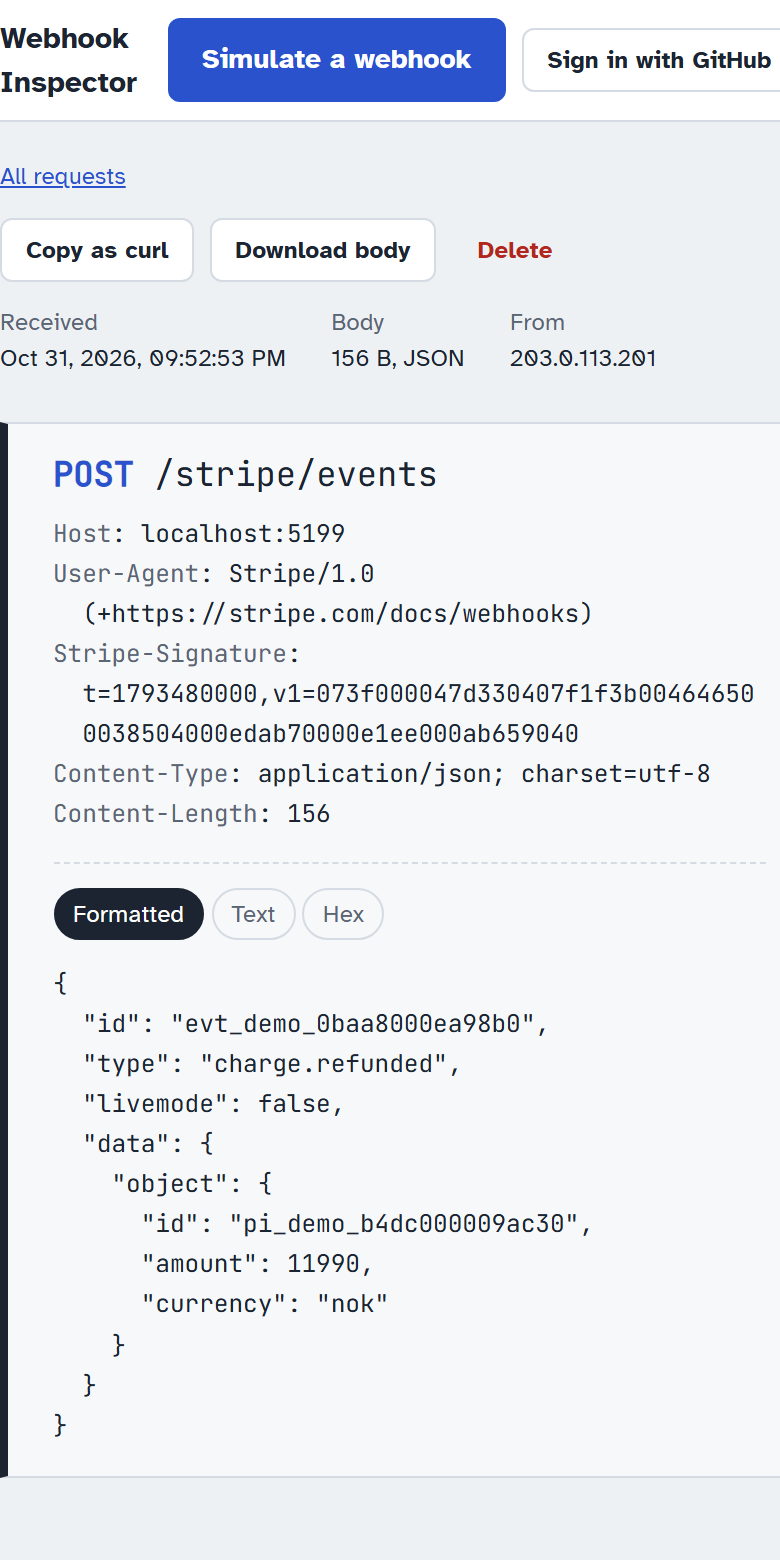
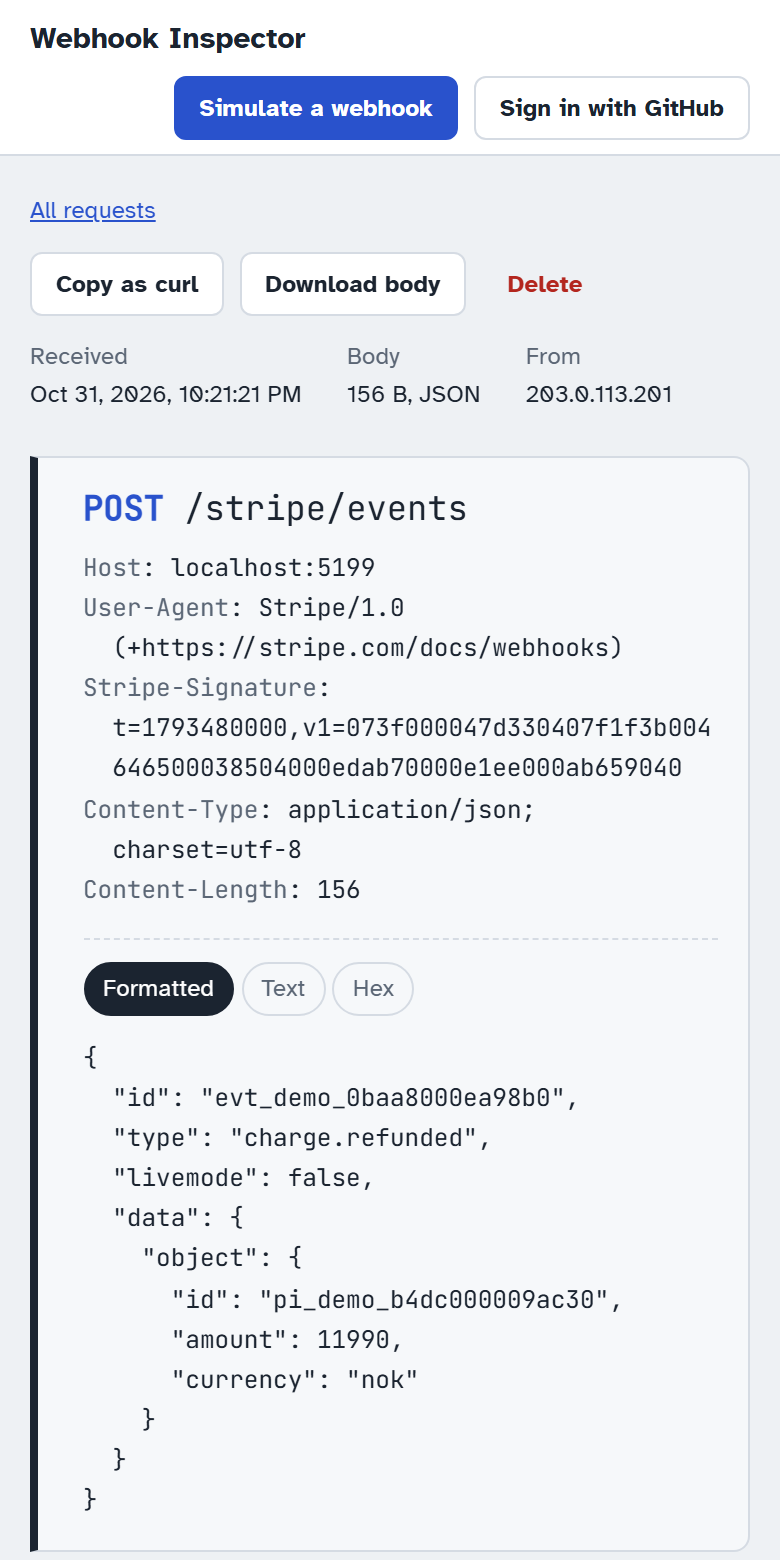
Let the top bar wrap so the UI fits narrow phones

diff --git a/web/e2e/responsive.spec.ts b/web/e2e/responsive.spec.ts
@@ -1,0 +1,66 @@
+/// <reference lib="dom" />
+import { type Page, expect, test } from '@playwright/test'
+import { createEndpoint, signIn } from './helpers.ts'
+
+// From a small phone to a large monitor. The layout changes at 700 px and 1100 px.
+const widths = [320, 375, 600, 768, 1024, 1280, 1920, 2560]
+
+/** The page must fit its viewport: nothing may force a horizontal scrollbar. */
+async function expectNoHorizontalScroll(page: Page, where: string): Promise<void> {
+  const size = await page.evaluate(() => ({
+    viewport: document.documentElement.clientWidth,
+    content: document.documentElement.scrollWidth,
+  }))
+  expect(size.content, `${where}: content is wider than the viewport`).toBeLessThanOrEqual(size.viewport)
+}
+
+test('the sign-in page and the demo fit every screen width', async ({ page }) => {
+  for (const width of widths) {
+    await page.setViewportSize({ width, height: 800 })
+
+    await page.goto('/')
+    await expect(page.getByRole('link', { name: 'Sign in with GitHub' })).toBeVisible()
+    await expectNoHorizontalScroll(page, `sign-in at ${width}px`)
+
+    await page.goto('/demo')
+    await expect(page.getByRole('link', { name: /GitHub push/ })).toBeVisible()
+    await expectNoHorizontalScroll(page, `demo home at ${width}px`)
+
+    await page.getByRole('link', { name: /GitHub push/ }).click()
+    await expectNoHorizontalScroll(page, `demo endpoint at ${width}px`)
+
+    await page.locator('.request-row').first().click()
+    await expect(page.getByRole('button', { name: 'Copy as curl' })).toBeVisible()
+    await expectNoHorizontalScroll(page, `demo request at ${width}px`)
+
+    // Every action in the top bar stays on screen.
+    for (const name of ['Simulate a webhook', 'Sign in with GitHub']) {
+      const box = await page.getByRole('banner').getByRole(name === 'Sign in with GitHub' ? 'link' : 'button', { name }).boundingBox()
+      expect(box, name).not.toBeNull()
+      expect(box!.x + box!.width, `${name} at ${width}px`).toBeLessThanOrEqual(width)
+    }
+  }
+})
+
+test('the signed-in app fits a narrow phone, including a long request', async ({ page }) => {
+  await signIn(page, 'e2e-responsive-with-a-long-login-name')
+  await page.setViewportSize({ width: 320, height: 700 })
+  await page.goto('/')
+  const captureUrl = await createEndpoint(page, 'An endpoint with a rather long name for a phone')
+  await expectNoHorizontalScroll(page, 'endpoint')
+
+  const longValue = 'x'.repeat(400)
+  await page.request.post(`${captureUrl}/a/${'segment/'.repeat(20)}?q=${longValue}`, {
+    headers: { 'Content-Type': 'application/json', 'X-Long-Header': longValue },
+    data: JSON.stringify({ long: longValue, nested: { list: [longValue, longValue] } }),
+  })
+  await page.getByRole('button', { name: 'Refresh' }).click()
+  await page.locator('.request-row').first().click()
+  await expect(page.getByRole('button', { name: 'Copy as curl' })).toBeVisible()
+  await expectNoHorizontalScroll(page, 'request with long values')
+
+  for (const view of ['Text', 'Hex']) {
+    await page.getByRole('radio', { name: view, exact: true }).click()
+    await expectNoHorizontalScroll(page, `${view} body view`)
+  }
+})

diff --git a/web/src/index.css b/web/src/index.css
@@ -243,12 +243,15 @@ a {
 .shell {
   display: grid;
   grid-template-rows: auto 1fr;
+  /* minmax(0, 1fr): no single long line or button row can make the page wider than the screen. */
+  grid-template-columns: minmax(0, 1fr);
   block-size: 100dvh;
 }
 
 .topbar {
   display: flex;
-  gap: var(--space-4);
+  flex-wrap: wrap;
+  gap: var(--space-2) var(--space-4);
   align-items: center;
   padding: var(--space-2) var(--space-4);
   border-block-end: 1px solid var(--rule);
@@ -273,7 +276,9 @@ a {
 
 .topbar-user {
   display: flex;
+  flex-wrap: wrap;
   gap: var(--space-2);
+  margin-inline-start: auto;
   align-items: center;
   font-size: var(--step--1);
 }
@@ -286,6 +291,7 @@ a {
 
 .pane {
   min-block-size: 0;
+  min-inline-size: 0;
   overflow-y: auto;
   padding: var(--space-4);
 }
@@ -781,6 +787,11 @@ a {
 @media (max-width: 700px) {
   .topbar-note {
     display: none;
+  }
+
+  .topbar .button-primary {
+    padding: 0.4rem 0.8rem;
+    font-size: var(--step--1);
   }
 
   .workspace {
